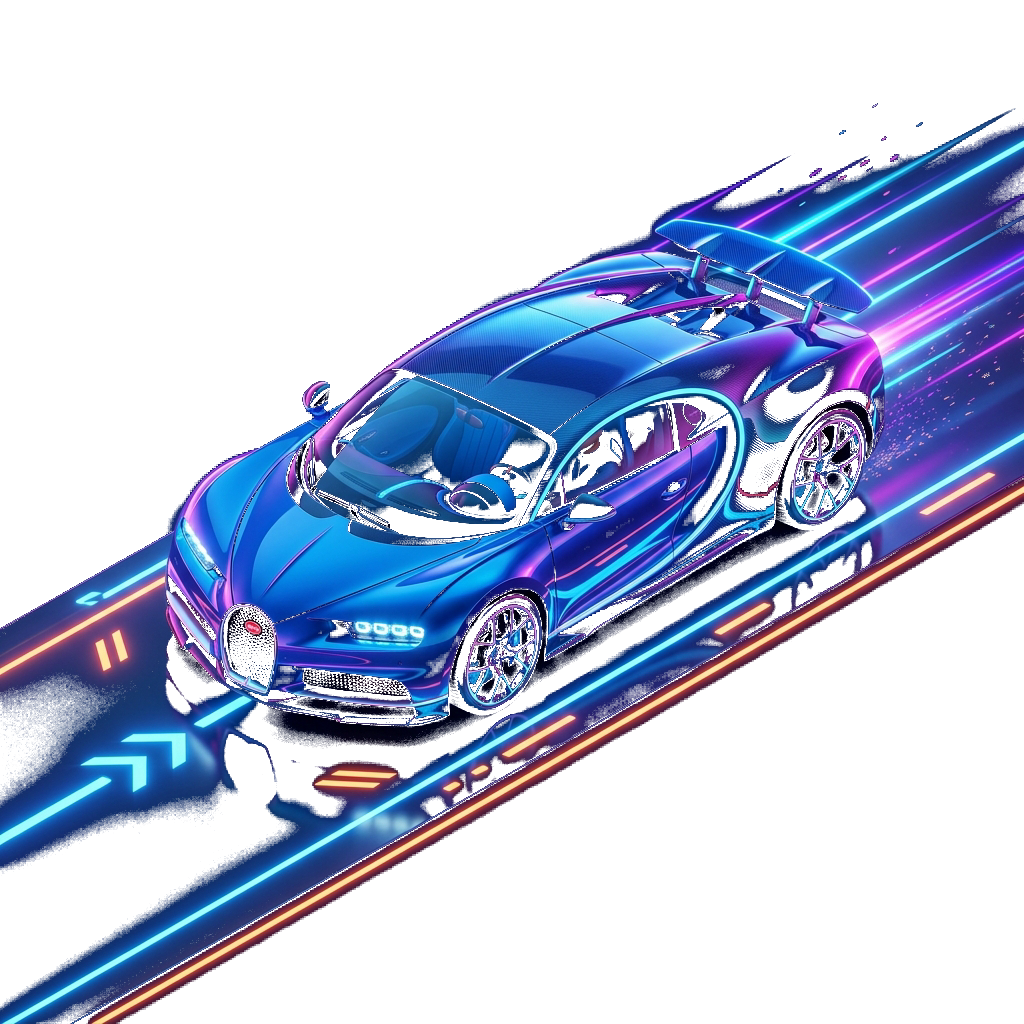
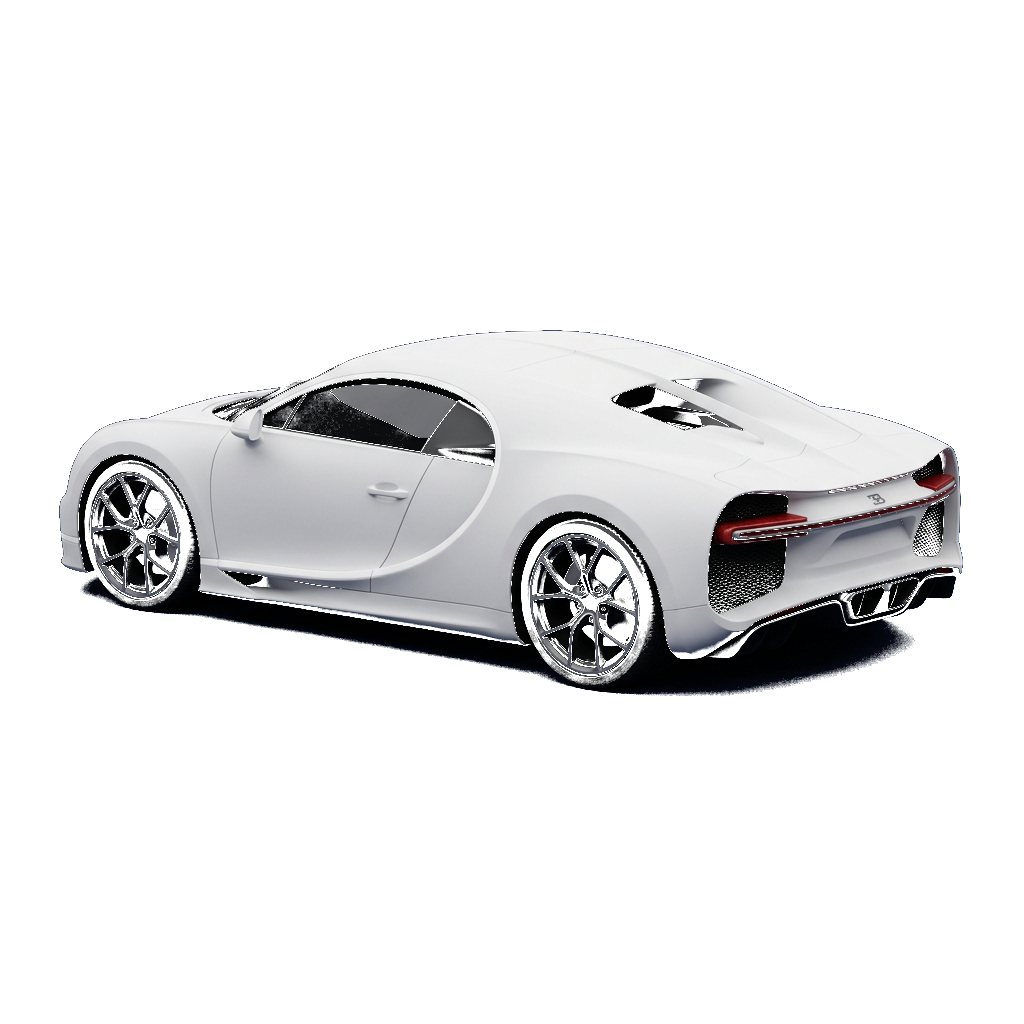
Add new vehicles, implement distinct player colors via CarAvatar, remove unneeded bg removal scripts

diff --git a/src/components/CarAvatar.jsx b/src/components/CarAvatar.jsx
@@ -1,0 +1,33 @@
+import React from 'react';
+
+export default function CarAvatar({ src, color, className = "", alt = "vehicle" }) {
+  return (
+    <div className={`relative inline-flex items-center justify-center shrink-0 ${className}`}>
+      {/* Base Image */}
+      <img 
+        src={src} 
+        alt={alt} 
+        className="w-full h-full object-contain z-10 drop-shadow-md" 
+      />
+      {/* Tint Overlay */}
+      {color && (
+        <div 
+          className="absolute inset-0 z-20 pointer-events-none" 
+          style={{
+            backgroundColor: color,
+            mixBlendMode: 'multiply',
+            opacity: 0.85,
+            maskImage: `url(${src})`,
+            WebkitMaskImage: `url(${src})`,
+            maskSize: 'contain',
+            WebkitMaskSize: 'contain',
+            maskPosition: 'center',
+            WebkitMaskPosition: 'center',
+            maskRepeat: 'no-repeat',
+            WebkitMaskRepeat: 'no-repeat'
+          }} 
+        />
+      )}
+    </div>
+  );
+}

diff --git a/src/constants.js b/src/constants.js
@@ -5,6 +5,15 @@ export const VEHICLES = [
   { name: 'Porsche', icon: '/cars/porsche.png' },
   { name: 'Mustang', icon: '/cars/mustang.png' },
   { name: 'Hilux', icon: '/cars/hilux.png' },
+  { name: 'RR Phantom', icon: '/cars/rr_phantom.png' },
+  { name: 'Wrangler', icon: '/cars/wrangler.png' },
+  { name: 'Rover Defender', icon: '/cars/rover_defender.png' },
+  { name: 'Landcruiser', icon: '/cars/landcruiser.png' },
+  { name: 'C300', icon: '/cars/c300.png' },
+  { name: 'Huracan', icon: '/cars/huracan.png' },
+  { name: 'McLaren', icon: '/cars/mclaren.png' },
+  { name: 'Brabus', icon: '/cars/brabus.png' },
+  { name: 'Dodge Charger', icon: '/cars/dodge_charger.png' },
 ];
 
 export const COLORS = [

diff --git a/src/components/FleetSelection.jsx b/src/components/FleetSelection.jsx
@@ -1,6 +1,7 @@
 import { useState } from 'react';
 import { motion, AnimatePresence } from 'framer-motion';
 import { ArrowLeft, Check } from 'lucide-react';
+import CarAvatar from './CarAvatar';
 import { useGame } from '../context/GameContext';
 import { VEHICLES, COLORS } from '../constants';
 
@@ -57,7 +58,7 @@ export default function FleetSelection() {
               transition={{ type: 'spring', bounce: 0.5 }}
               className="z-10 drop-shadow-xl"
             >
-              <img src={VEHICLES[selectedV].icon} alt="vehicle" className="w-[120px] h-[120px] md:w-[180px] md:h-[180px] object-contain drop-shadow-2xl z-10" />
+              <CarAvatar src={VEHICLES[selectedV].icon} color={COLORS[selectedC]} className="w-[120px] h-[120px] md:w-[180px] md:h-[180px]" />
             </motion.div>
           </AnimatePresence>
         </div>
@@ -92,7 +93,7 @@ export default function FleetSelection() {
                 `}
                 style={{ borderColor: i === selectedV ? COLORS[selectedC] : undefined }}
               >
-                <img src={v.icon} alt={v.name} className="w-12 h-12 object-contain drop-shadow-md" />
+                <CarAvatar src={v.icon} color={i === selectedV ? COLORS[selectedC] : undefined} alt={v.name} className="w-12 h-12" />
                 <div className="text-[11px] font-medium text-white/80">{v.name}</div>
               </motion.div>
             ))}

diff --git a/src/components/Lobby.jsx b/src/components/Lobby.jsx
@@ -1,6 +1,7 @@
 import { useState } from 'react';
 import { motion, AnimatePresence } from 'framer-motion';
 import { ChevronDown, Check, Users, MessageSquare, Flag, Copy, QrCode, X } from 'lucide-react';
+import CarAvatar from './CarAvatar';
 import { useGame } from '../context/GameContext';
 
 export default function Lobby() {
@@ -172,7 +173,7 @@ export default function Lobby() {
               style={{ borderColor: player.color, boxShadow: `0 4px 20px ${player.color}15` }}
             >
               <div className="absolute inset-0 opacity-20 pointer-events-none" style={{ background: `radial-gradient(circle at top right, ${player.color}, transparent)` }} />
-              <img src={player.vehicle} alt="vehicle" className="w-16 h-16 object-contain z-10 mt-1 drop-shadow-md" />
+              <CarAvatar src={player.vehicle} color={player.color} className="w-16 h-16 mt-1" />
               <div className="text-[12px] font-bold text-center leading-tight px-1 z-10 text-white">{player.name}</div>
               <div className="text-[10px] italic text-center leading-[1.3] min-h-[28px] px-1 z-10 font-medium" style={{ color: player.color }}>
                 {player.banter || <span className="opacity-50">Tap to customise</span>}
@@ -201,7 +202,7 @@ export default function Lobby() {
                     </button>
                   )}
                   <div className="absolute inset-0 opacity-10 pointer-events-none" style={{ background: `radial-gradient(circle at top right, ${o.color}, transparent)` }} />
-                  <img src={o.vehicle} alt="vehicle" className="w-16 h-16 object-contain z-10 mt-1 drop-shadow-md" />
+                  <CarAvatar src={o.vehicle} color={o.color} className="w-16 h-16 mt-1" />
                   <div className="text-[12px] font-bold text-center leading-tight px-1 z-10 text-white/90">{o.name}</div>
                   <div className="text-[10px] italic text-center leading-[1.3] min-h-[28px] px-1 z-10 font-medium" style={{ color: o.color }}>
                     {o.banter}

diff --git a/src/components/Podium.jsx b/src/components/Podium.jsx
@@ -2,6 +2,7 @@ import { useState, useEffect } from 'react';
 import { motion } from 'framer-motion';
 import { useGame } from '../context/GameContext';
 import { Home } from 'lucide-react';
+import CarAvatar from './CarAvatar';
 
 export default function Podium() {
   const { player, opponents, navigate, isSpectator } = useGame();
@@ -75,7 +76,7 @@ export default function Podium() {
                   transition={{ delay: i * 0.2 + 0.3, type: "spring", damping: 15 }}
                 >
                   <div className="absolute inset-0 bg-white/20 blur-xl rounded-full" />
-                  <img src={slot.p.vehicle} alt="vehicle" className="w-16 h-16 md:w-20 md:h-20 object-contain drop-shadow-xl" />
+                  <CarAvatar src={slot.p.vehicle} color={slot.p.color} className="w-16 h-16 md:w-20 md:h-20" />
                 </motion.div>
                 <div className="text-[13px] md:text-[16px] font-bold text-center max-w-[100px] md:max-w-[120px] truncate text-white drop-shadow-md">{slot.p.name}</div>
                 <div className="text-[10px] md:text-[12px] italic text-center max-w-[100px] md:max-w-[120px] leading-[1.3] truncate h-4 font-medium" style={{ color: slot.p.color }}>
@@ -115,7 +116,7 @@ export default function Podium() {
             {allPlayers.map((p, i) => (
               <div key={p.sessionId || i} className={`flex items-center gap-3 py-2 px-3 rounded-xl border transition-colors ${i === 0 ? 'bg-amber/10 border-amber/30' : 'bg-white/5 border-white/5 hover:bg-white/10'}`}>
                 <div className={`w-6 text-[14px] font-black text-center ${i === 0 ? 'text-amber' : 'text-white/40'}`}>{i + 1}</div>
-                <img src={p.vehicle} alt="vehicle" className="w-8 h-8 object-contain drop-shadow-md" />
+                <CarAvatar src={p.vehicle} color={p.color} className="w-8 h-8" />
                 <div className="flex-1 font-bold text-[15px]" style={{ color: p.color }}>{p.name}</div>
                 <div className={`text-[16px] font-black ${i === 0 ? 'text-amber' : 'text-white/80'}`}>{Math.round(p.score)}</div>
               </div>

diff --git a/src/components/Question.jsx b/src/components/Question.jsx
@@ -2,6 +2,7 @@ import { motion } from 'framer-motion';
 import { useGame } from '../context/GameContext';
 import { LETTERS } from '../constants';
 import { playSelect } from '../utils/audio';
+import CarAvatar from './CarAvatar';
 
 export default function Question() {
   const { 
@@ -73,7 +74,7 @@ export default function Question() {
                   style={{ borderColor: p === player ? p.color : undefined }}
                 >
                   <div className="text-[10px] md:text-[12px] font-black text-white/30 w-3">{i + 1}</div>
-                  <img src={p.vehicle} alt="vehicle" className="w-8 h-8 object-contain drop-shadow-md" />
+                  <CarAvatar src={p.vehicle} color={p.color} className="w-8 h-8" />
                   <div className="text-[12px] md:text-[14px] font-bold" style={{ color: p === player ? p.color : 'white' }}>
                     {Math.round(p.score)}
                   </div>